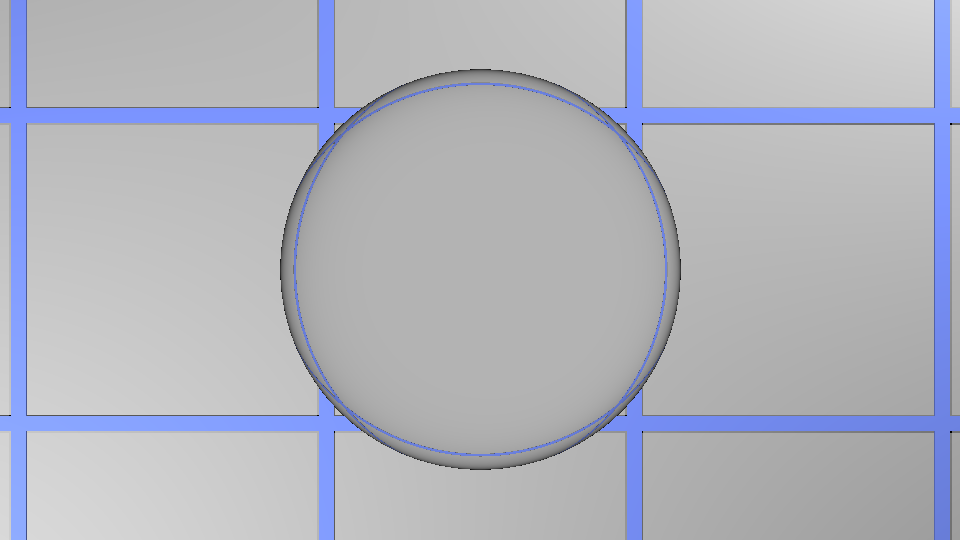
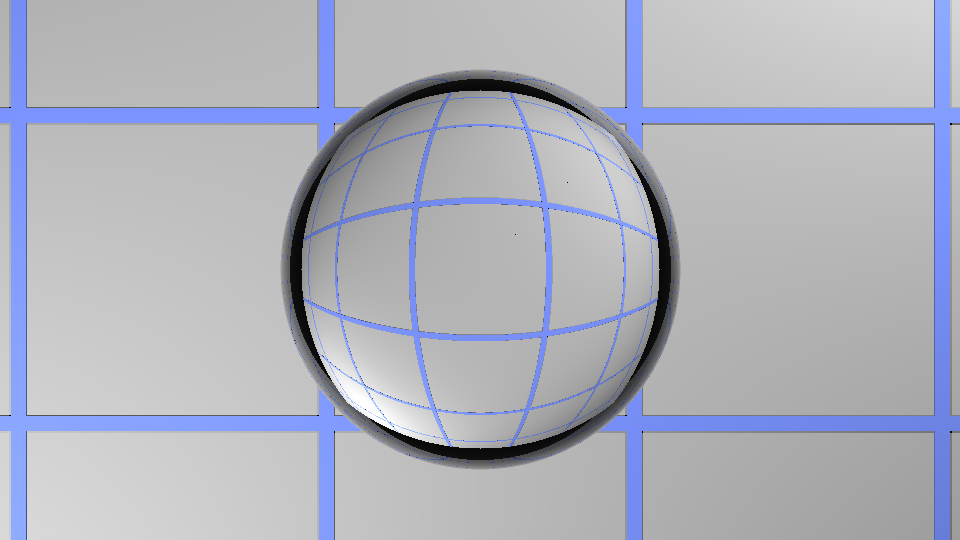
no reflection when theta = 0

Changed region(s): [[0.2812, 0.1185, 0.7188, 0.8889]]

diff --git a/src/cs4620/ray2/shader/Glass.java b/src/cs4620/ray2/shader/Glass.java
@@ -74,12 +74,11 @@ public class Glass extends Shader {
 		double theta1 = Math.acos(cosangle);		
 		
 		if(cosangle < 0) {
-		 theta1 = Math.PI - theta1;
-		 refrac = 1 / refractiveIndex;
-		 normal.set(record.normal.negate().normalize());
-		 R = fresnel(normal, outgoing, refrac);
+			theta1 = Math.PI - theta1;
+			refrac = 1 / refractiveIndex;
+			normal.set(record.normal.negate().normalize());
+			R = fresnel(normal, outgoing, refrac);
 		}
-		
 		
 
 		reflectlight.set(normal.clone().mul(2 * outgoing.dot(normal)).sub(outgoing.normalize()));
@@ -87,27 +86,22 @@ public class Glass extends Shader {
 		Ray reflectray = new Ray(record.location, reflectlight);
 		
 		reflectray.makeOffsetRay();
-		
-		System.out.println(reflectray.direction);
 
-		
-		RayTracer.shadeRay(reflect, scene, reflectray, depth + 1);
-		
-		System.out.println(reflect);
-
-		
-		outIntensity.add(reflect.mul(R));
+		if (theta1 != 0) {
+			RayTracer.shadeRay(reflect, scene, reflectray, depth + 1);
+			outIntensity.add(reflect.mul(R));
+		}
 
 		if(R != 1) {
-		double theta2 = Math.asin(Math.sin(theta1) / refrac);
-		refractlight.set(outgoing.clone().negate().add(normal.clone().mul(Math.cos(theta1))).
-		div(refrac).sub(normal.clone().mul(Math.cos(theta2))));
-
-		Ray refractray = new Ray(record.location, refractlight);
-		refractray.makeOffsetRay();
-
-		RayTracer.shadeRay(refract, scene, refractray, depth + 1);
-		outIntensity.add(refract.mul(1 - R));
+			double theta2 = Math.asin(Math.sin(theta1) / refrac);
+			refractlight.set(outgoing.clone().negate().add(normal.clone().mul(Math.cos(theta1))).
+			div(refrac).sub(normal.clone().mul(Math.cos(theta2))));
+	
+			Ray refractray = new Ray(record.location, refractlight);
+			refractray.makeOffsetRay();
+	
+			RayTracer.shadeRay(refract, scene, refractray, depth + 1);
+			outIntensity.add(refract.mul(1 - R));
 		}
 
 	
